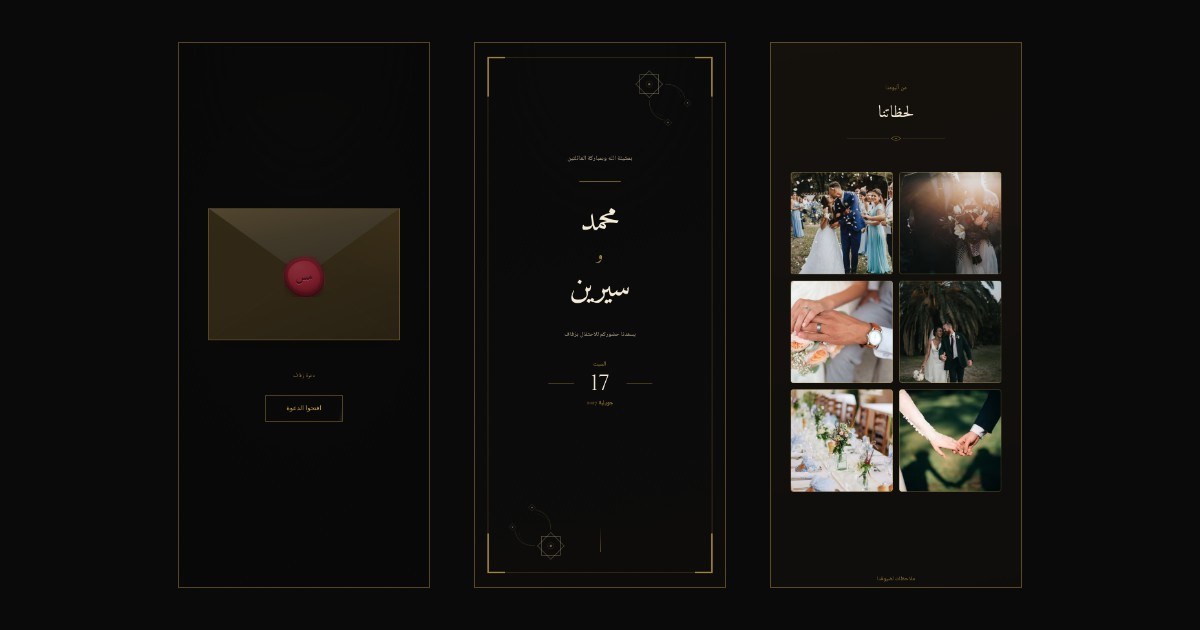
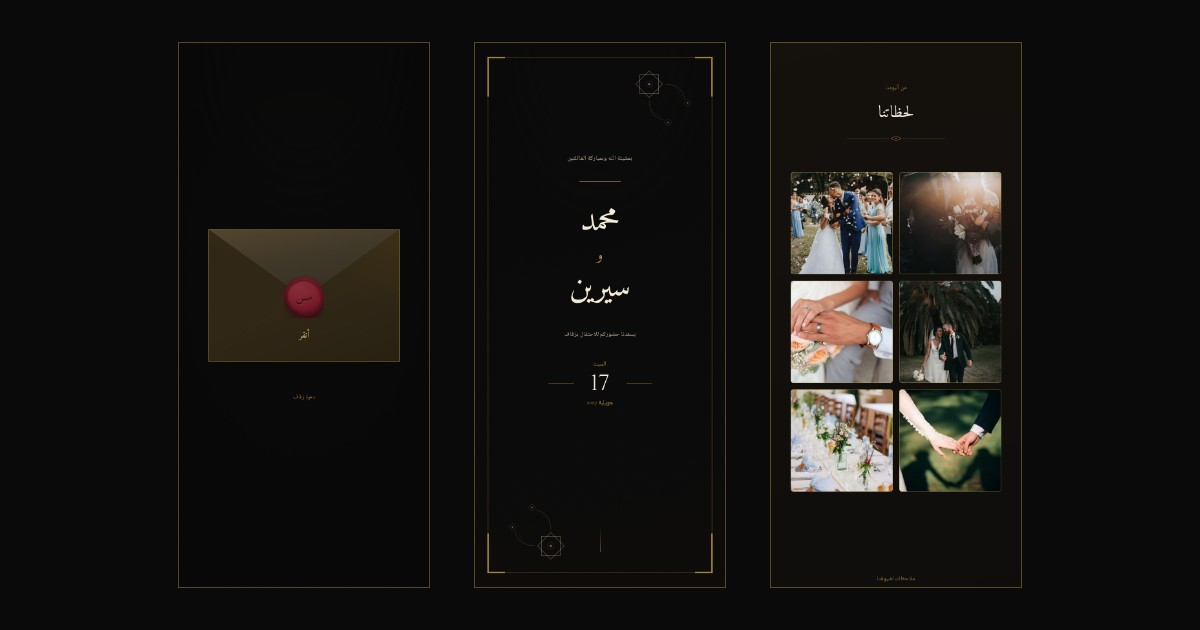
Make the seal the opening control, with a quiet «أنقر» beneath it
The rectangular "افتحوا الدعوة" button is gone. The seal (or the monogram,
for the minimal-fade opening) is now the one real button on the sealed
screen, labelled "افتحوا الدعوة" for assistive technology and reachable
by keyboard; one press runs the template's opening exactly as before.
A single small word, «أنقر» (Touchez / Tap), sits 20px under the seal:
outside it, aria-hidden, no border or fill, in brass pulled toward the
text colour so it holds at least 5:1 on every template's ground.

The full-screen layer is no longer a button (buttons cannot nest), but
a tap anywhere else on it still opens the invitation. Opening
choreography, timings, music and cover are untouched: regenerated
previews change only the sealed frames (and the OG cards built from
them); every cover and detail render is byte-identical.

Claude-Session: https://claude.ai/code/session_01FQD5T1HSwpxJqfC5wZzyj8

Changed region(s): [[0.1542, 0.3921, 0.3392, 0.573], [0.1542, 0.3317, 0.3392, 0.3921]]

diff --git a/src/components/invitation/opening-experience.tsx b/src/components/invitation/opening-experience.tsx
@@ -28,24 +28,75 @@ function Eyebrow({ theme, isOpen }: { theme: TemplateTheme; isOpen: boolean }) {
   );
 }
 
-/** The one shared control: a hairline-ruled label, never a filled button. */
-function OpenControl({ theme, isOpen, delay = 0 }: { theme: TemplateTheme; isOpen: boolean; delay?: number }) {
+const TAP_HINT = { ar: "أنقر", fr: "Touchez", en: "Tap" };
+
+/**
+ * The seal is the control. It is the one real button on the sealed screen,
+ * named for what it does, and a single press runs the template's opening.
+ * Under it sits one small word saying so: outside the seal, no frame, no
+ * fill, no movement. The word is decoration for sighted guests; assistive
+ * technology hears the button's name instead.
+ */
+function SealButton({
+  theme,
+  isOpen,
+  onOpen,
+  children,
+  round = true,
+  hint = "flow",
+}: Pick<OpeningProps, "theme" | "isOpen" | "onOpen"> & {
+  children: React.ReactNode;
+  /** Seals are round; a typographic monogram is not. */
+  round?: boolean;
+  /** "flow" takes its own line; "hang" hangs under the seal without moving it (the envelope seal is placed by its centre). */
+  hint?: "flow" | "hang" | "none";
+}) {
+  const { locale } = useTranslation();
+  return (
+    <span className="relative flex flex-col items-center">
+      <button
+        type="button"
+        onClick={(event) => {
+          // The screen behind also opens on a tap; stop here so one press is one open.
+          event.stopPropagation();
+          onOpen();
+        }}
+        disabled={isOpen}
+        aria-label={OPEN_LABEL[locale]}
+        className={`relative inline-flex items-center justify-center ${round ? "rounded-full" : "rounded-[2px]"}`}
+        style={{ cursor: isOpen ? "default" : "pointer" }}
+      >
+        {children}
+      </button>
+      {hint !== "none" && (
+        <TapHint
+          theme={theme}
+          isOpen={isOpen}
+          className={hint === "hang" ? "absolute left-1/2 top-full mt-5 -translate-x-1/2" : "mt-5"}
+        />
+      )}
+    </span>
+  );
+}
+
+/** «أنقر» — the quiet word under the seal. */
+function TapHint({ theme, isOpen, className }: { theme: TemplateTheme; isOpen: boolean; className?: string }) {
   const { locale } = useTranslation();
   return (
     <span
-      className="relative inline-flex items-center justify-center overflow-hidden border px-8 py-3 text-[0.62rem] font-medium uppercase"
+      aria-hidden="true"
+      className={`block whitespace-nowrap leading-none ${locale === "ar" ? "text-[0.875rem]" : "text-[0.62rem] uppercase"} ${className ?? ""}`}
       style={{
-        borderColor: `${theme.primary}66`,
-        color: theme.primary,
-        letterSpacing: "var(--inv-track-button, 0.3em)",
-        fontFamily: "var(--font-cinzel), serif",
+        // Brass pulled 45% toward the template's text: still warm, and at least
+        // 5:1 on every template's ground (plain brass drops to 2.5:1 on ivory).
+        color: `color-mix(in srgb, ${theme.text} 45%, ${theme.primary})`,
+        letterSpacing: locale === "ar" ? 0 : "var(--inv-track-label, 0.34em)",
+        fontFamily: "var(--font-cinzel), var(--font-amiri), serif",
         opacity: isOpen ? 0 : 1,
-        transform: isOpen ? "translateY(6px)" : "translateY(0)",
-        transition: `opacity 500ms ease ${delay}ms, transform 500ms ease ${delay}ms`,
+        transition: "opacity 400ms ease",
       }}
     >
-      <span className="relative">{OPEN_LABEL[locale]}</span>
-      <FoilSweep enabled={theme.foil !== false} delay={900} />
+      {TAP_HINT[locale]}
     </span>
   );
 }
@@ -57,7 +108,11 @@ type OpeningProps = {
   monogram: string;
 };
 
-/** The full-bleed pressable surface every opening style sits on. */
+/**
+ * The full-bleed surface every opening style sits on. The seal is the button;
+ * a tap anywhere else on the sealed screen still opens the invitation, so a
+ * guest who misses the seal is never left waiting.
+ */
 function OpeningShell({
   theme,
   isOpen,
@@ -66,13 +121,9 @@ function OpeningShell({
   background,
   fadeDelay = 1150,
 }: OpeningProps & { children: React.ReactNode; background?: React.CSSProperties; fadeDelay?: number }) {
-  const { locale } = useTranslation();
   return (
-    <button
-      type="button"
-      onClick={onOpen}
-      disabled={isOpen}
-      aria-label={OPEN_LABEL[locale]}
+    <div
+      onClick={isOpen ? undefined : onOpen}
       className="absolute inset-0 z-20 flex flex-col items-center justify-center overflow-hidden"
       style={{
         backgroundColor: theme.background,
@@ -85,7 +136,7 @@ function OpeningShell({
     >
       <TextureOverlay texture={theme.texture} tint={theme.primary} />
       {children}
-    </button>
+    </div>
   );
 }
 
@@ -184,13 +235,14 @@ function EnvelopeOpening(props: OpeningProps) {
             transition: "opacity 400ms ease",
           }}
         >
-          <WaxSeal color={seal} monogram={monogram} size={62} broken={isOpen} idle={!isOpen} />
+          <SealButton theme={theme} isOpen={isOpen} onOpen={props.onOpen} hint="hang">
+            <WaxSeal color={seal} monogram={monogram} size={62} broken={isOpen} idle={!isOpen} />
+          </SealButton>
         </span>
       </div>
 
       <span className="relative mt-12 flex flex-col items-center gap-6">
         <Eyebrow theme={theme} isOpen={isOpen} />
-        <OpenControl theme={theme} isOpen={isOpen} />
       </span>
     </OpeningShell>
   );
@@ -227,8 +279,9 @@ function CurtainOpening(props: OpeningProps) {
         style={{ opacity: isOpen ? 0 : 1, transition: "opacity 400ms ease" }}
       >
         <Eyebrow theme={theme} isOpen={isOpen} />
-        <WaxSeal color={theme.sealColor ?? theme.primary} monogram={monogram} size={66} broken={isOpen} idle={!isOpen} />
-        <OpenControl theme={theme} isOpen={isOpen} />
+        <SealButton theme={theme} isOpen={isOpen} onOpen={props.onOpen}>
+          <WaxSeal color={theme.sealColor ?? theme.primary} monogram={monogram} size={66} broken={isOpen} idle={!isOpen} />
+        </SealButton>
       </span>
     </OpeningShell>
   );
@@ -268,8 +321,9 @@ function PaperFoldOpening(props: OpeningProps) {
         <span className="relative block h-px w-24" style={{ backgroundColor: `${theme.primary}66` }}>
           <FoilSweep enabled={theme.foil !== false} />
         </span>
-        <WaxSeal color={theme.sealColor ?? theme.primary} monogram={monogram} size={60} broken={isOpen} idle={!isOpen} />
-        <OpenControl theme={theme} isOpen={isOpen} />
+        <SealButton theme={theme} isOpen={isOpen} onOpen={props.onOpen}>
+          <WaxSeal color={theme.sealColor ?? theme.primary} monogram={monogram} size={60} broken={isOpen} idle={!isOpen} />
+        </SealButton>
       </span>
     </OpeningShell>
   );
@@ -311,10 +365,9 @@ function WaxSealOpening(props: OpeningProps) {
         >
           <FoilSweep enabled={theme.foil !== false} />
         </span>
-        <WaxSeal color={theme.sealColor ?? theme.primary} monogram={monogram} size={84} broken={isOpen} idle={!isOpen} />
-        <span className="mt-12">
-          <OpenControl theme={theme} isOpen={isOpen} />
-        </span>
+        <SealButton theme={theme} isOpen={isOpen} onOpen={props.onOpen}>
+          <WaxSeal color={theme.sealColor ?? theme.primary} monogram={monogram} size={84} broken={isOpen} idle={!isOpen} />
+        </SealButton>
       </span>
     </OpeningShell>
   );
@@ -336,23 +389,24 @@ function MinimalFadeOpening(props: OpeningProps) {
           transition: "opacity 620ms ease, transform 900ms cubic-bezier(0.22,1,0.36,1)",
         }}
       >
-        <span
-          className="relative block text-5xl"
-          style={{
-            fontFamily: "var(--font-cinzel), serif",
-            color: theme.primary,
-            letterSpacing: "0.12em",
-          }}
-        >
-          {monogram}
-          <FoilSweep enabled={theme.foil !== false} />
-        </span>
+        {/* No wax here: the monogram is the seal, and the hint sits under its rule. */}
+        <SealButton theme={theme} isOpen={isOpen} onOpen={props.onOpen} round={false} hint="none">
+          <span
+            className="relative block text-5xl"
+            style={{
+              fontFamily: "var(--font-cinzel), serif",
+              color: theme.primary,
+              letterSpacing: "0.12em",
+            }}
+          >
+            {monogram}
+            <FoilSweep enabled={theme.foil !== false} />
+          </span>
+        </SealButton>
         <span className="relative mt-7 block h-px w-40" style={{ backgroundColor: `${theme.primary}59` }}>
           <FoilSweep enabled={theme.foil !== false} delay={600} />
         </span>
-        <span className="mt-12">
-          <OpenControl theme={theme} isOpen={isOpen} />
-        </span>
+        <TapHint theme={theme} isOpen={isOpen} className="mt-5" />
       </span>
     </OpeningShell>
   );
